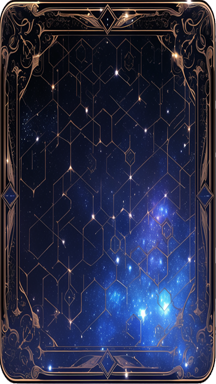
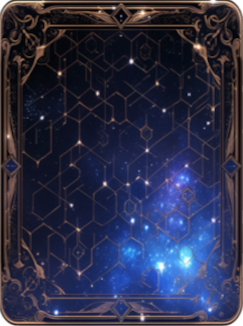
Changed some pictures, fixed cards, changed frontend stuff, added docker file and commands

diff --git a/apps/frontend/src/components/coin-flip/coin-flip.tsx b/apps/frontend/src/components/coin-flip/coin-flip.tsx
@@ -16,15 +16,14 @@ export const CoinFlip = (properties: CoinFlipProperties) => {
     const { decision } = properties;
     return (
         <div className='coin-flip'>
-            <div className='bar'>
-                <DecisionText decision={decision} />
-            </div>
+            <div className='bar'></div>
             <div className='center'>
                 <div
                     className='yugi'
                     style={{
                         backgroundImage: `url(${ServerUrl}/static/${DecisionImage[decision]})`
                     }}></div>
+                <DecisionText decision={decision} />
             </div>
         </div>
     );
@@ -34,12 +33,12 @@ const DecisionText = (properties: CoinFlipProperties) => {
     const { decision } = properties;
     switch (decision) {
         case 'DRAW':
-            return <h1>Das Herz der Karten sagt ziehen!</h1>;
+            return <h1 class='coin-text'>Das Herz der Karten sagt ziehen!</h1>;
         case 'PASS':
-            return <h1>Das Herz der Karten sagt passen!</h1>;
+            return <h1 class='coin-text'>Das Herz der Karten sagt passen!</h1>;
         case 'PENDING':
             return (
-                <div>
+                <div class='coin-text'>
                     <h1>Ihr seid euch unsicher.</h1>
                     <h1>Ich frage das Herz der Karten...</h1>
                 </div>

diff --git a/apps/frontend/src/components/score-display/score-display.tsx b/apps/frontend/src/components/score-display/score-display.tsx
@@ -12,16 +12,12 @@ export const ScoreDisplay = (properties: ScoreDisplayProperties) => {
         <div className='score-display'>
             <div className='panel'>
                 <div className='row'>
-                    <div className='icon'>
-                        <img src={`${ServerUrl}/static/yugioh/bank.png`}></img>
-                    </div>
+                    <img class='icon-bank' src={`${ServerUrl}/static/yugioh/bank.png`}></img>
                     <span className='dealer score'>{dealerScore.toFixed(0)}</span>
                 </div>
                 <div className='separator'></div>
                 <div className='row'>
-                    <div className='icon'>
-                        <img src={`${ServerUrl}/static/yugioh/human.png`}></img>
-                    </div>
+                    <img class='icon-player' src={`${ServerUrl}/static/yugioh/human.png`}></img>
                     <span className='player score'>{playerScore.toFixed(0)}</span>
                 </div>
             </div>

diff --git a/apps/frontend/src/components/coin-flip/coin-flip.css b/apps/frontend/src/components/coin-flip/coin-flip.css
@@ -1,5 +1,5 @@
 .coin-flip {
-    --yugi-size: 50%;
+    --yugi-size: 60%;
     --bar-height: 30%;
 
     display: flex;
@@ -17,8 +17,6 @@
     justify-content: flex-end;
     align-items: flex-end;
 
-    color: white;
-
     padding: 2em 4em;
 
     width: 100%;
@@ -31,11 +29,15 @@
     box-sizing: border-box;
 }
 
+.coin-text {
+    position: relative;
+    color: white;
+}
+
 .coin-flip > .center {
     display: flex;
     justify-content: center;
     align-items: center;
-
     position: absolute;
     top: 0;
     bottom: 0;
@@ -44,10 +46,11 @@
 }
 
 .coin-flip > .center > .yugi {
-    width: var(--yugi-size);
+    width: 35%;
     height: var(--yugi-size);
-
+    position: relative;
     background-repeat: no-repeat;
-    background-size: cover;
+    background-size: contain;
     background-position: center center;
+    top: -7.5%;
 }

diff --git a/apps/backend/src/telephone/single-route-input.ts b/apps/backend/src/telephone/single-route-input.ts
@@ -1,8 +1,15 @@
 import { InputFromStarfacePbx } from './starface-pbx-input.js';
 
-export const SingleRouteActionValues = ['REGISTER', 'HANG_UP', 'DRAW', 'PASS', 'STATE'] as const;
+export const SingleRouteActionValues = [
+    'REGISTER',
+    'HANG_UP',
+    'DRAW',
+    'PASS',
+    'STATE',
+    'START'
+] as const;
 
-export type SingleRouteAction = 'REGISTER' | 'HANG_UP' | 'DRAW' | 'PASS' | 'STATE';
+export type SingleRouteAction = 'REGISTER' | 'HANG_UP' | 'DRAW' | 'PASS' | 'STATE' | 'START';
 
 export type SingleRouteInpu = InputFromStarfacePbx & {
     action: SingleRouteAction;

diff --git a/apps/backend/src/controller/telephone.controller.ts b/apps/backend/src/controller/telephone.controller.ts
@@ -127,6 +127,10 @@ export class TelephoneController {
                     this.stateHandler()(req, res, next);
                     break;
                 }
+                case 'START': {
+                    this.startGameHandler()(req, res, next);
+                    break;
+                }
                 default: {
                     next(new Error(`Action "${req.query.action}" is not implmented`));
                     break;

diff --git a/apps/frontend/src/components/score-display/score-display.css b/apps/frontend/src/components/score-display/score-display.css
@@ -28,12 +28,16 @@
     color: white;
 }
 
-.score-display .icon {
-    width: 96px;
-
-    background-color: white;
-
-    border-radius: 50%;
+.score-display {
+    .icon-bank {
+        width: 96px;
+        border-radius: 50%;
+    }
+    .icon-player {
+        width: 80px;
+        border-radius: 50%;
+        box-shadow: 0 0 1px 0.5px white;
+    }
 }
 
 .score-display img {

diff --git a/apps/frontend/src/components/playing-card/playing-card.css b/apps/frontend/src/components/playing-card/playing-card.css
@@ -1,13 +1,11 @@
 .playing-card {
     background-color: white;
 
-    aspect-ratio: 3/5;
+    aspect-ratio: 0.75/1;
+    border-radius: 11px;
 
     background-repeat: no-repeat;
     background-size: cover;
-
-    border: 2px solid gray;
-    border-radius: 20px;
 
     box-shadow: 4px 4px 4px black;
 }

diff --git a/apps/frontend/src/components/card-deck/card-deck.css b/apps/frontend/src/components/card-deck/card-deck.css
@@ -1,8 +1,5 @@
 .card-deck.playing-card {
-    background-color: red;
-
-    border: 2px solid gray;
-    border-radius: 20px;
+    background-color: rgb(20, 17, 87);
 
     box-shadow: 12px 12px 16px black;
 }

diff --git a/README.md b/README.md
@@ -40,8 +40,15 @@ npx turbo build [--force]
 npx turbo deploy
 ```
 
-### Generate docker images
+### Generate docker images(generates both back- and frontend)
 
 ```ssh
 pnpm docker:generate
+```
+
+### Commands to generate single docker Image
+
+```ssh
+pnpm docker-generate-backend
+pnpm docker-generate-frontend
 ```
